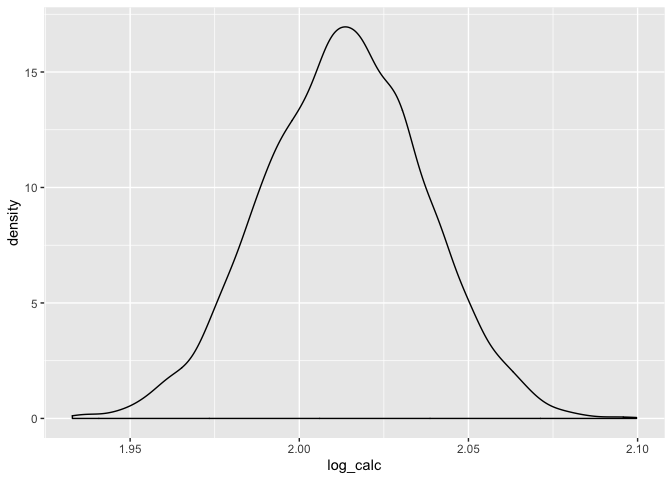
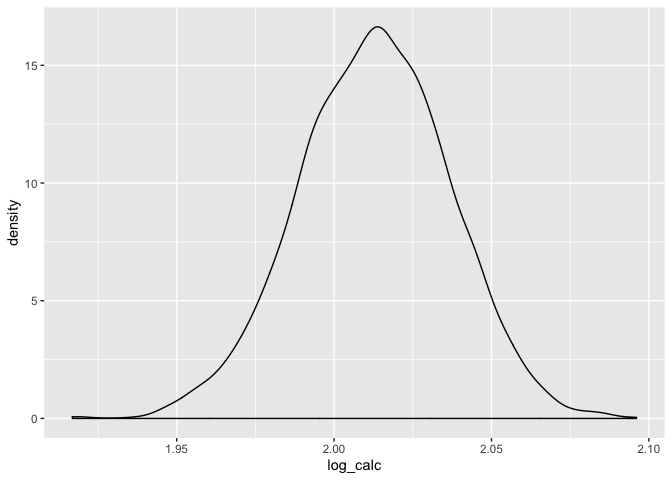
Added comments to my Homework

diff --git a/Homework-6.md b/Homework-6.md
@@ -1,10 +1,12 @@
 Homework 6
 ================
 Dania Jafar
-11/15/2019
+11/25/2019
 
 ``` r
+#load the data
 birthweight = read.csv("./birthweight.csv") %>% 
+#clean the data by converting numeric variables to factor
   mutate(babysex = as.factor(babysex),
          frace = as.factor(frace),
          mrace = as.factor(mrace),
@@ -13,9 +15,13 @@ birthweight = read.csv("./birthweight.csv") %>%
 
 # Problem 1
 
-``` r
-#In this model, I have decided to use mother's smoking status, race, age at delivery, and baby's gestational age in weeks as the predictors for my model. I have chosen these factors as they seem to be some of the most important predictors for a child's weight at birth. 
+In this model, I have decided to use mother’s smoking status, race, age
+at delivery, and baby’s gestational age in weeks as the predictors for
+my model. I have chosen these factors as they seem to be some of the
+most important predictors for a child’s weight at
+birth.
 
+``` r
 birthweight2 = birthweight %>% #create a new dataset for the model I want to generate
   select(bwt, smoken, mrace, gaweeks, momage)
 
@@ -56,12 +62,12 @@ library(modelr)
 
 birthweight2 = modelr::add_predictions(birthweight2, fit)
 
-#plots of birthweight by residuals 
+#I am now creating a plot of model residuals against fitted predicted birthweight values. These predicted values are based on the model I created using the 4 predictors of bwt, smoken, mrace, gaweeks, and momage. 
 plot1 = 
 birthweight2 %>%   #scatter plot
   modelr::add_residuals(fit) %>% 
   ggplot(aes(x = pred, y = resid)) + geom_point() +
-  labs(x = "predicted birthweight", y = "residual")
+  labs(x = "Predicted Birthweight", y = "Residual")
 
 plot1
 ```
@@ -74,26 +80,29 @@ plot1
 linear_mod2 = lm(bwt ~ blength + gaweeks, data = birthweight)
 linear_mod3 = lm(bwt ~ bhead + blength + babysex + bhead*blength + bhead*babysex + blength*babysex + bhead*blength*babysex, data = birthweight)
 
- #plotting a model to get a sense for their goodness of fit.
+#plotting a model to get a sense for their goodness of fit.
 
 cv_df = 
   crossv_mc(birthweight, 100)
 
+#training and testing
 cv_df =
   cv_df %>% 
   mutate(
     train = map(train, as_tibble),
     test = map(test, as_tibble))
 
+#I have used mutate + map & map2 to fit models to training data and obtain corresponding RMSEs for the testing data
 cv_df = 
   cv_df %>% 
-  mutate(fit  = map(train, ~lm(bwt ~ smoken + mrace + gaweeks + momage, data = .x)),
-         linear_mod2  = map(train, ~lm(bwt ~ blength + gaweeks, data = .x)),
-         linear_mod3  = map(train, ~lm(bwt ~ bhead + blength + babysex + bhead*blength + bhead*babysex + blength*babysex + bhead*blength*babysex, data = .x))) %>% 
+mutate(fit  = map(train, ~lm(bwt ~ smoken + mrace + gaweeks + momage, data = .x)),
+       linear_mod2  = map(train, ~lm(bwt ~ blength + gaweeks, data = .x)),
+       linear_mod3  = map(train, ~lm(bwt ~ bhead + blength + babysex + bhead*blength + bhead*babysex + blength*babysex + bhead*blength*babysex, data = .x))) %>% 
   mutate(rmse_fit = map2_dbl(fit, test, ~rmse(model = .x, data = .y)),
          rmse_lm2 = map2_dbl(linear_mod2, test, ~rmse(model = .x, data = .y)),
          rmse_lm3 = map2_dbl(linear_mod3, test, ~rmse(model = .x, data = .y)))
 
+#plotting the prediction error distribution for each candidate model.
 cv_df %>% 
   select(starts_with("rmse")) %>% 
   pivot_longer(
@@ -114,6 +123,7 @@ cv_df %>%
 # Problem 2
 
 ``` r
+#Load in the data
 weather_df = 
   rnoaa::meteo_pull_monitors(
     c("USW00094728"),
@@ -142,7 +152,7 @@ weather_df =
     ## file min/max dates: 1869-01-01 / 2019-09-30
 
 ``` r
-#Create a linear model
+#Create a linear model where tmin is the predictor and tmax is the outcome
 lm(tmax ~ tmin, data = weather_df) %>% 
   broom::tidy() %>% 
   knitr::kable(digits = 3)
@@ -207,11 +217,11 @@ quantile(., probs = c(0.025, 0.975, 0.95), na.rm = TRUE)
 ```
 
     ##      2.5%     97.5%       95% 
-    ## 0.8944239 0.9267152 0.9246803
+    ## 0.8940573 0.9272799 0.9249849
 
 ``` r
 #Getting the log(β̂ 0∗β̂ 1)
-data1 = 
+log_info = 
 weather_bootstrap%>% 
   mutate(
     models = map(strap, ~lm(tmax ~ tmin, data =.x)),
@@ -228,18 +238,22 @@ weather_bootstrap%>%
   rename(intercept= '(Intercept)') %>% 
   mutate(log_calc = log(intercept*tmin)) 
 
-data1 %>% 
+log_info %>% 
    pull(log_calc) %>% 
   quantile(., probs = c(0.025, 0.975, 0.95), na.rm = TRUE)
 ```
 
     ##     2.5%    97.5%      95% 
-    ## 1.965795 2.059422 2.051686
+    ## 1.964753 2.058378 2.051427
 
 ``` r
-data1 %>% 
+log_info %>% 
   ggplot(aes(x = log_calc)) + #create a density plot of r-squared
   geom_density()
 ```
 
-![](Homework-6_files/figure-gfm/unnamed-chunk-4-3.png)<!-- -->
+![](Homework-6_files/figure-gfm/unnamed-chunk-4-3.png)<!-- --> The first
+density plot I’ve created is of the r-squared. It shows the frequency of
+the various r-squared values for the 5000 bootstrap samples. The second
+density plot is of the log(Bo x B1) and shows the frequency of the
+various log(Bo x B1) values for the 5000 bootstrap samples.
